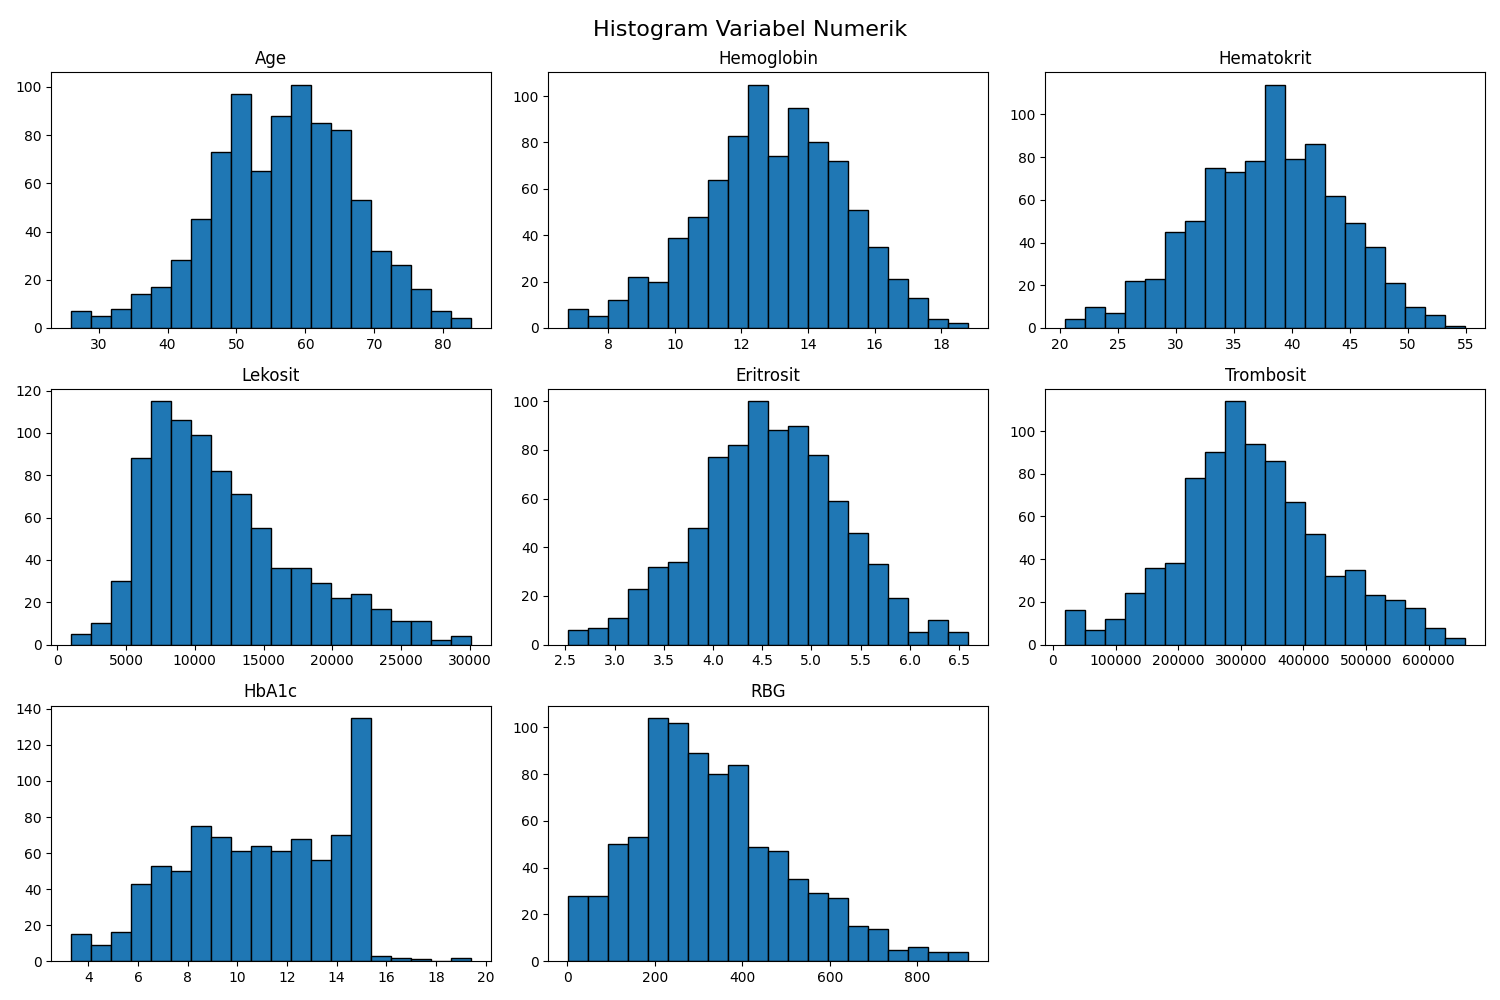
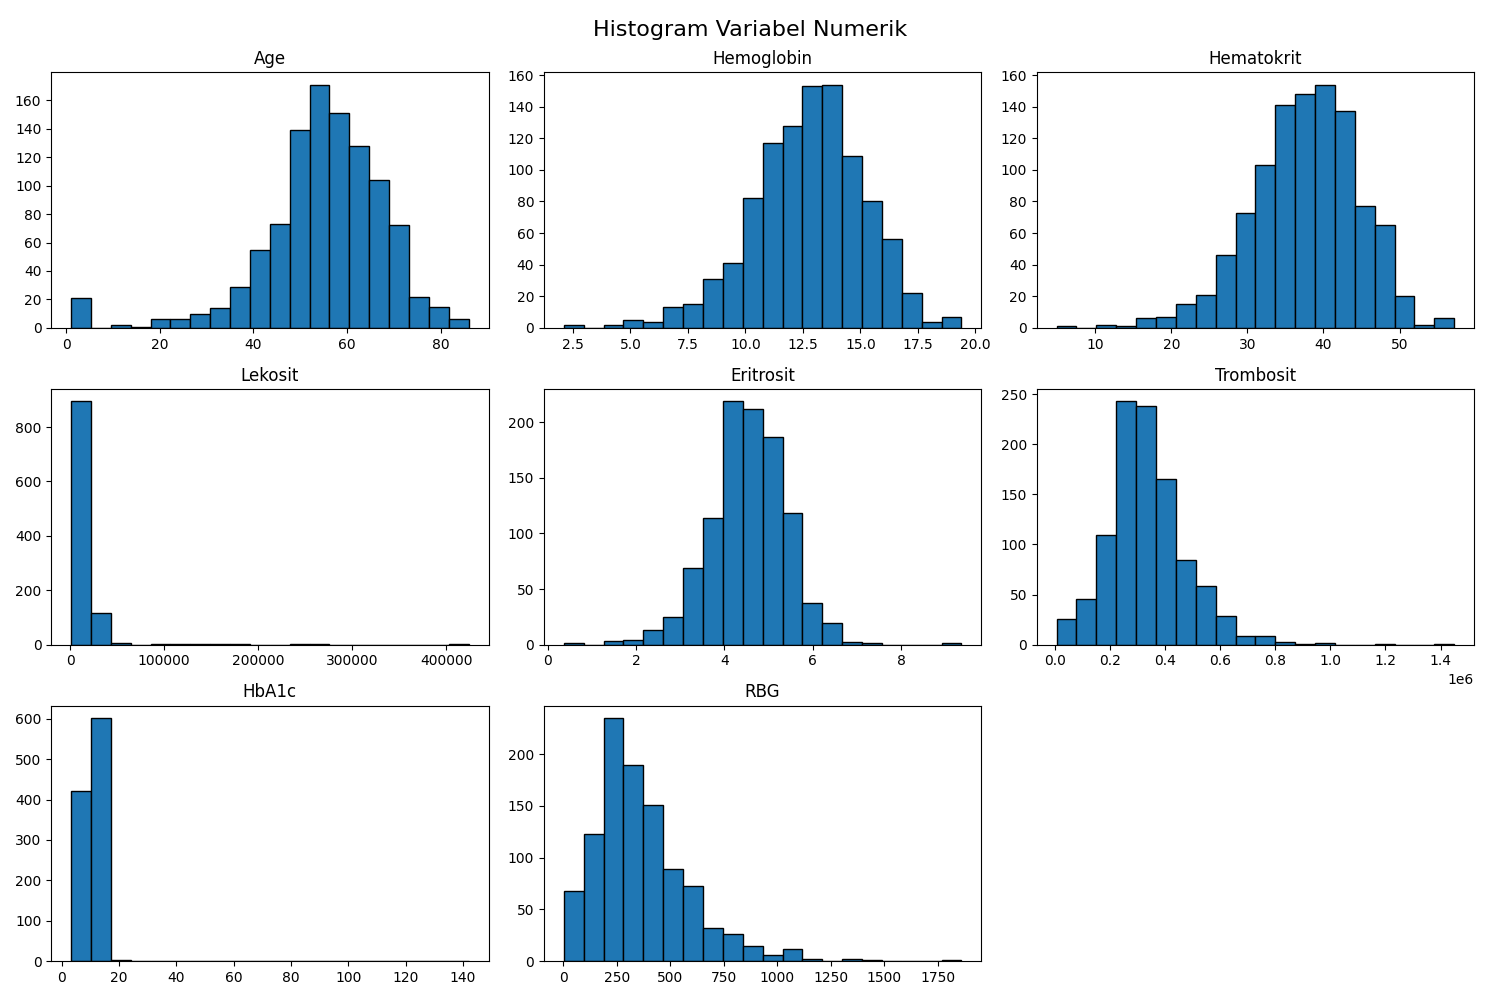
Statistic formula revision

diff --git a/dataExploration.py b/dataExploration.py
@@ -6,16 +6,22 @@ import seaborn as sns
 pd.set_option('display.max_columns', None)
 pd.set_option('display.width', 1000)
 
-df = pd.read_csv('dataset/Dataset_Clean.csv')
+df = pd.read_csv('dataset/Dataset TA1.csv')
+df =  df.dropna()
+print(f"Total baris awal: {df.shape[0]}")
 
 # 2. Pengukuran statistik berdasarkan tipe data
 categorical = ['Gender', 'Diagnose']
 numeric = ['Age', 'Hemoglobin', 'Hematokrit', 'Lekosit', 'Eritrosit', 'Trombosit', 'HbA1c', 'RBG']
 
-print("\n--- FREKUENSI KATEGORIKAL ---")
-print(df[categorical].apply(pd.Series.value_counts).fillna(0))
+print("\n--- STATISTIKA DESKRIPTIF ---")
+jumlah_gender = df['Gender'].value_counts()
+print(jumlah_gender)
 
-print("--- STATISTIK NUMERIK ---")
+jumlah_diagnose = df['Diagnose'].value_counts()
+print(jumlah_diagnose)
+
+print("\n--- STATISTIK NUMERIK ---")
 print(f"\nJumlah Data (not null) - COUNT:\n {df[numeric].count()}")
 print(f"\nRata-rata - MEAN\n {df[numeric].mean()}")
 print(f"\nStandar Deviasi - STD DEV:\n {df[numeric].std()}")

diff --git a/dataCleaning.py b/dataCleaning.py
@@ -13,6 +13,12 @@ print()
 print("=" *40)
 
 df_clean = df.dropna()
+print(f"Total baris setelah cleaning: {df_clean.shape[0]}")
+print(f"informasi data & kolom:")
+print(df_clean.info())
+print()
+print("=" *40)
+
 numeric = ['Age', 'Hemoglobin', 'Hematokrit', 'Lekosit', 'Eritrosit', 'Trombosit', 'HbA1c', 'RBG']
 print(f"Total baris setelah drop null: {df_clean.shape[0]}")
 
